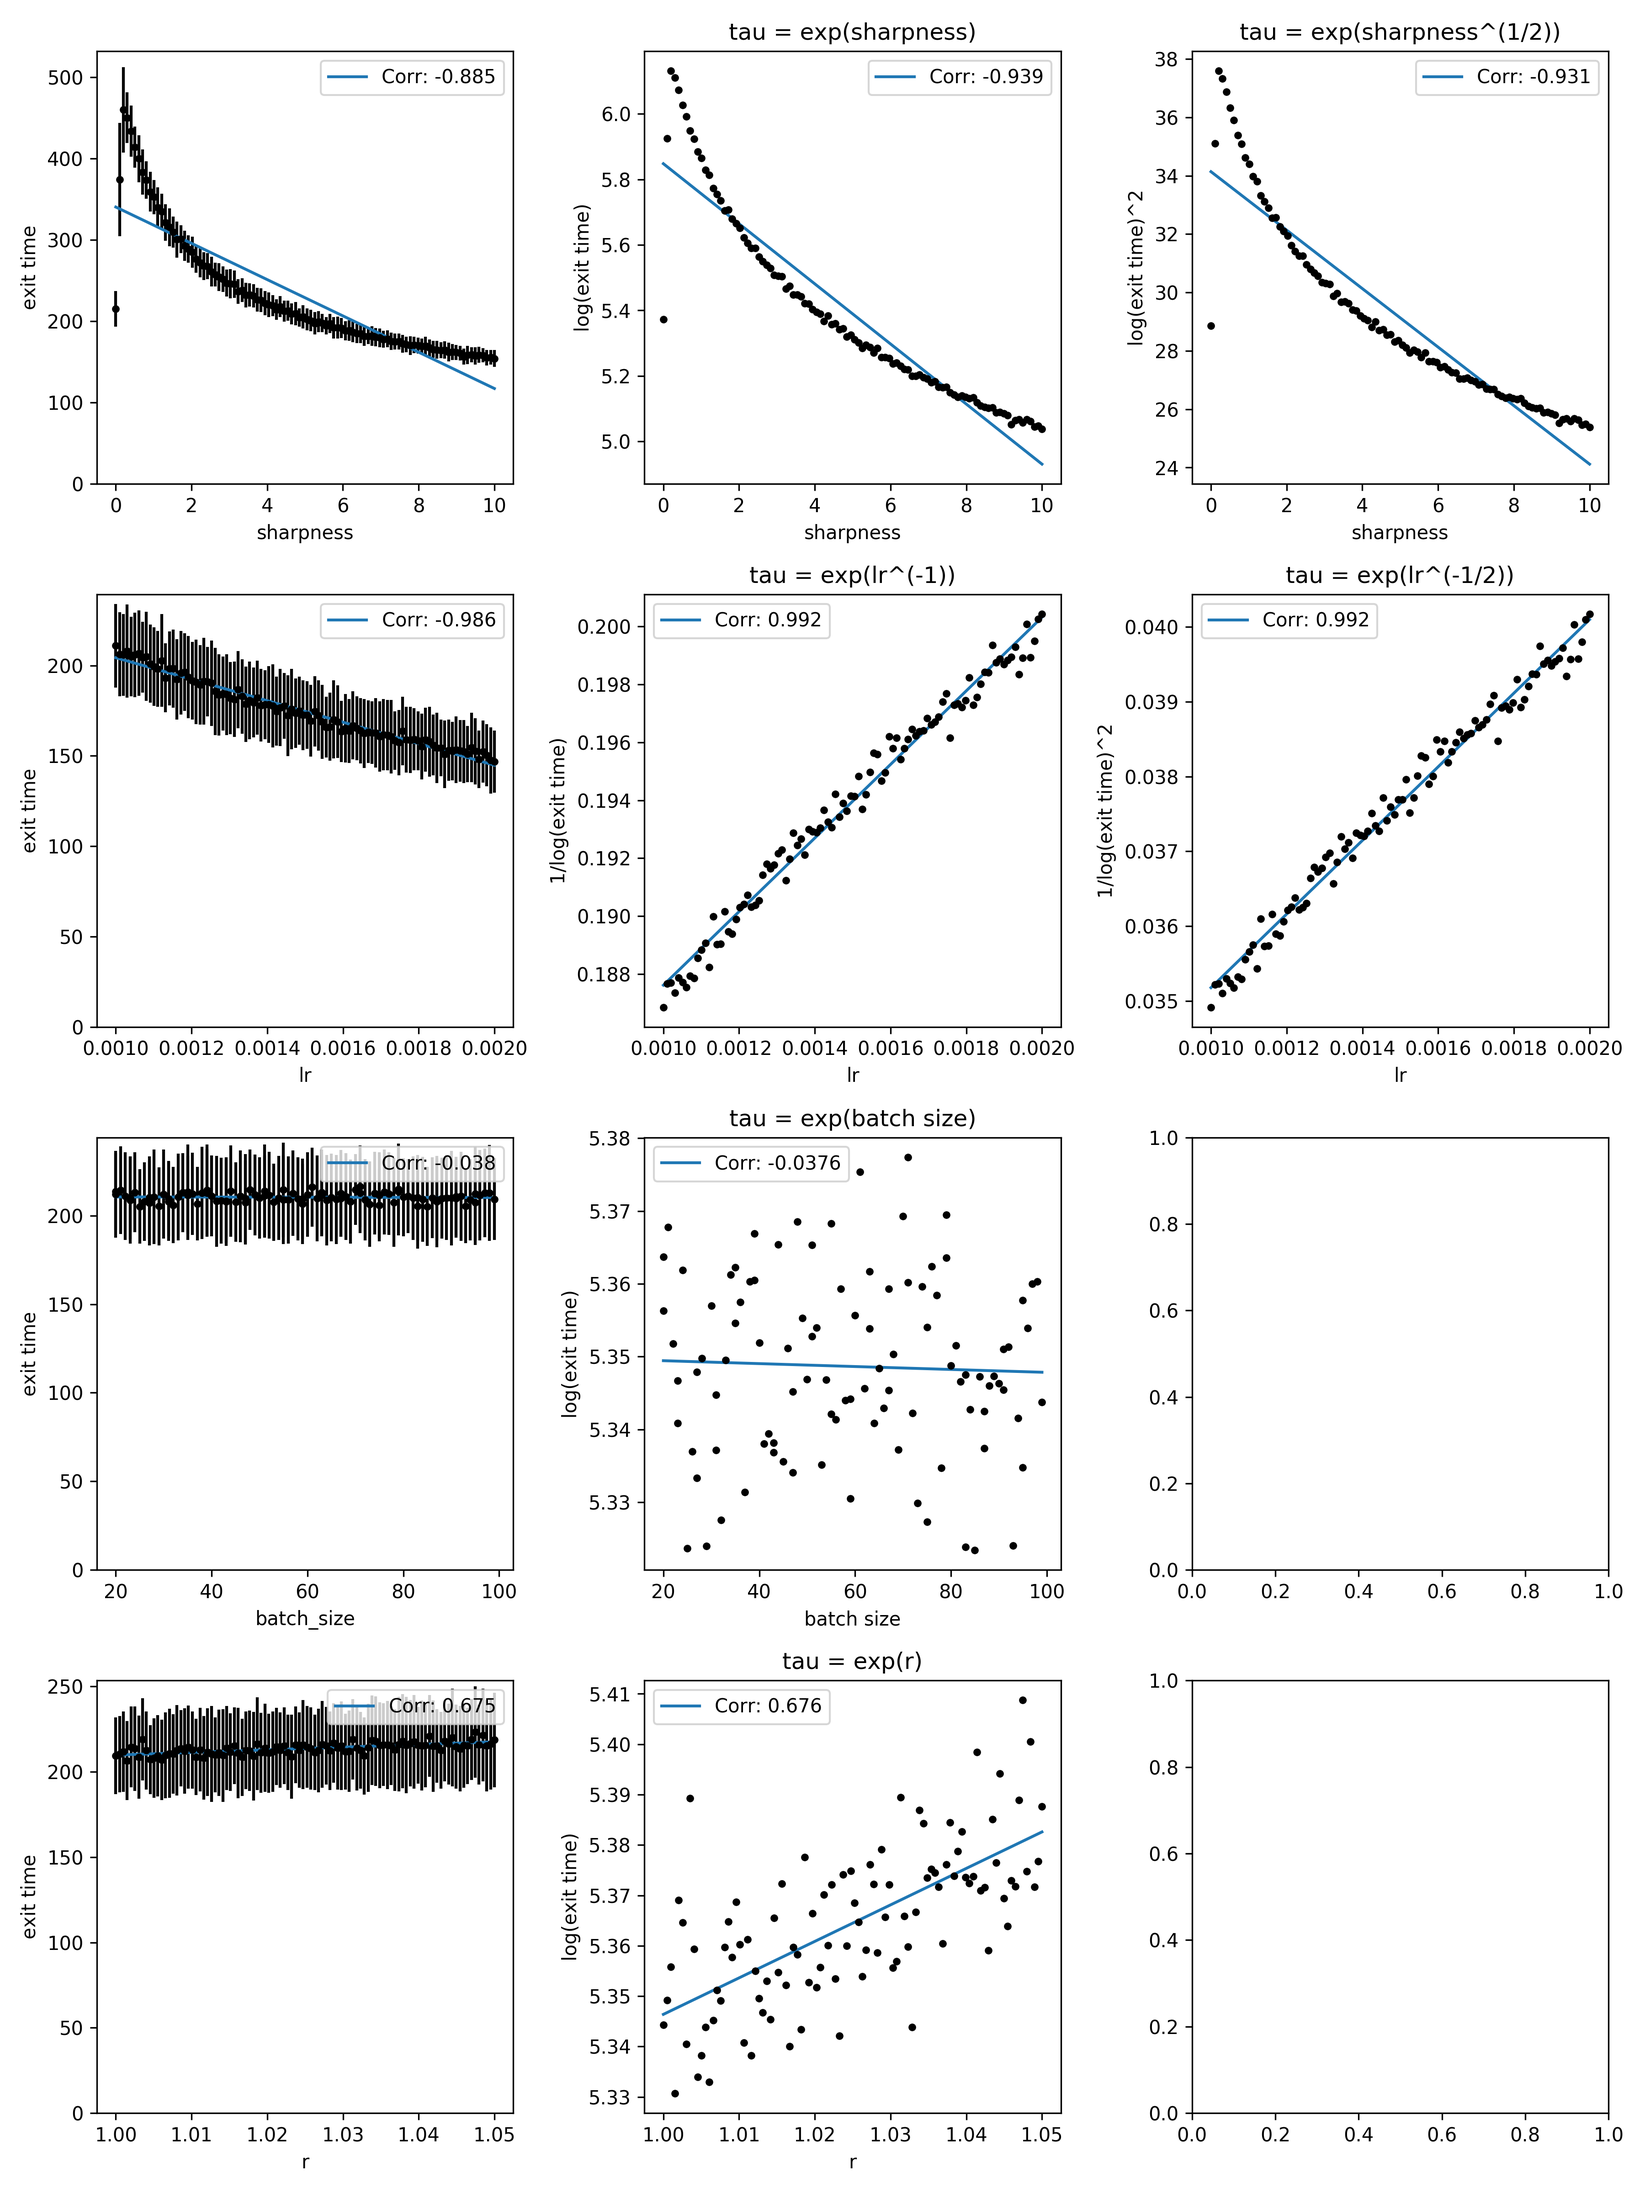
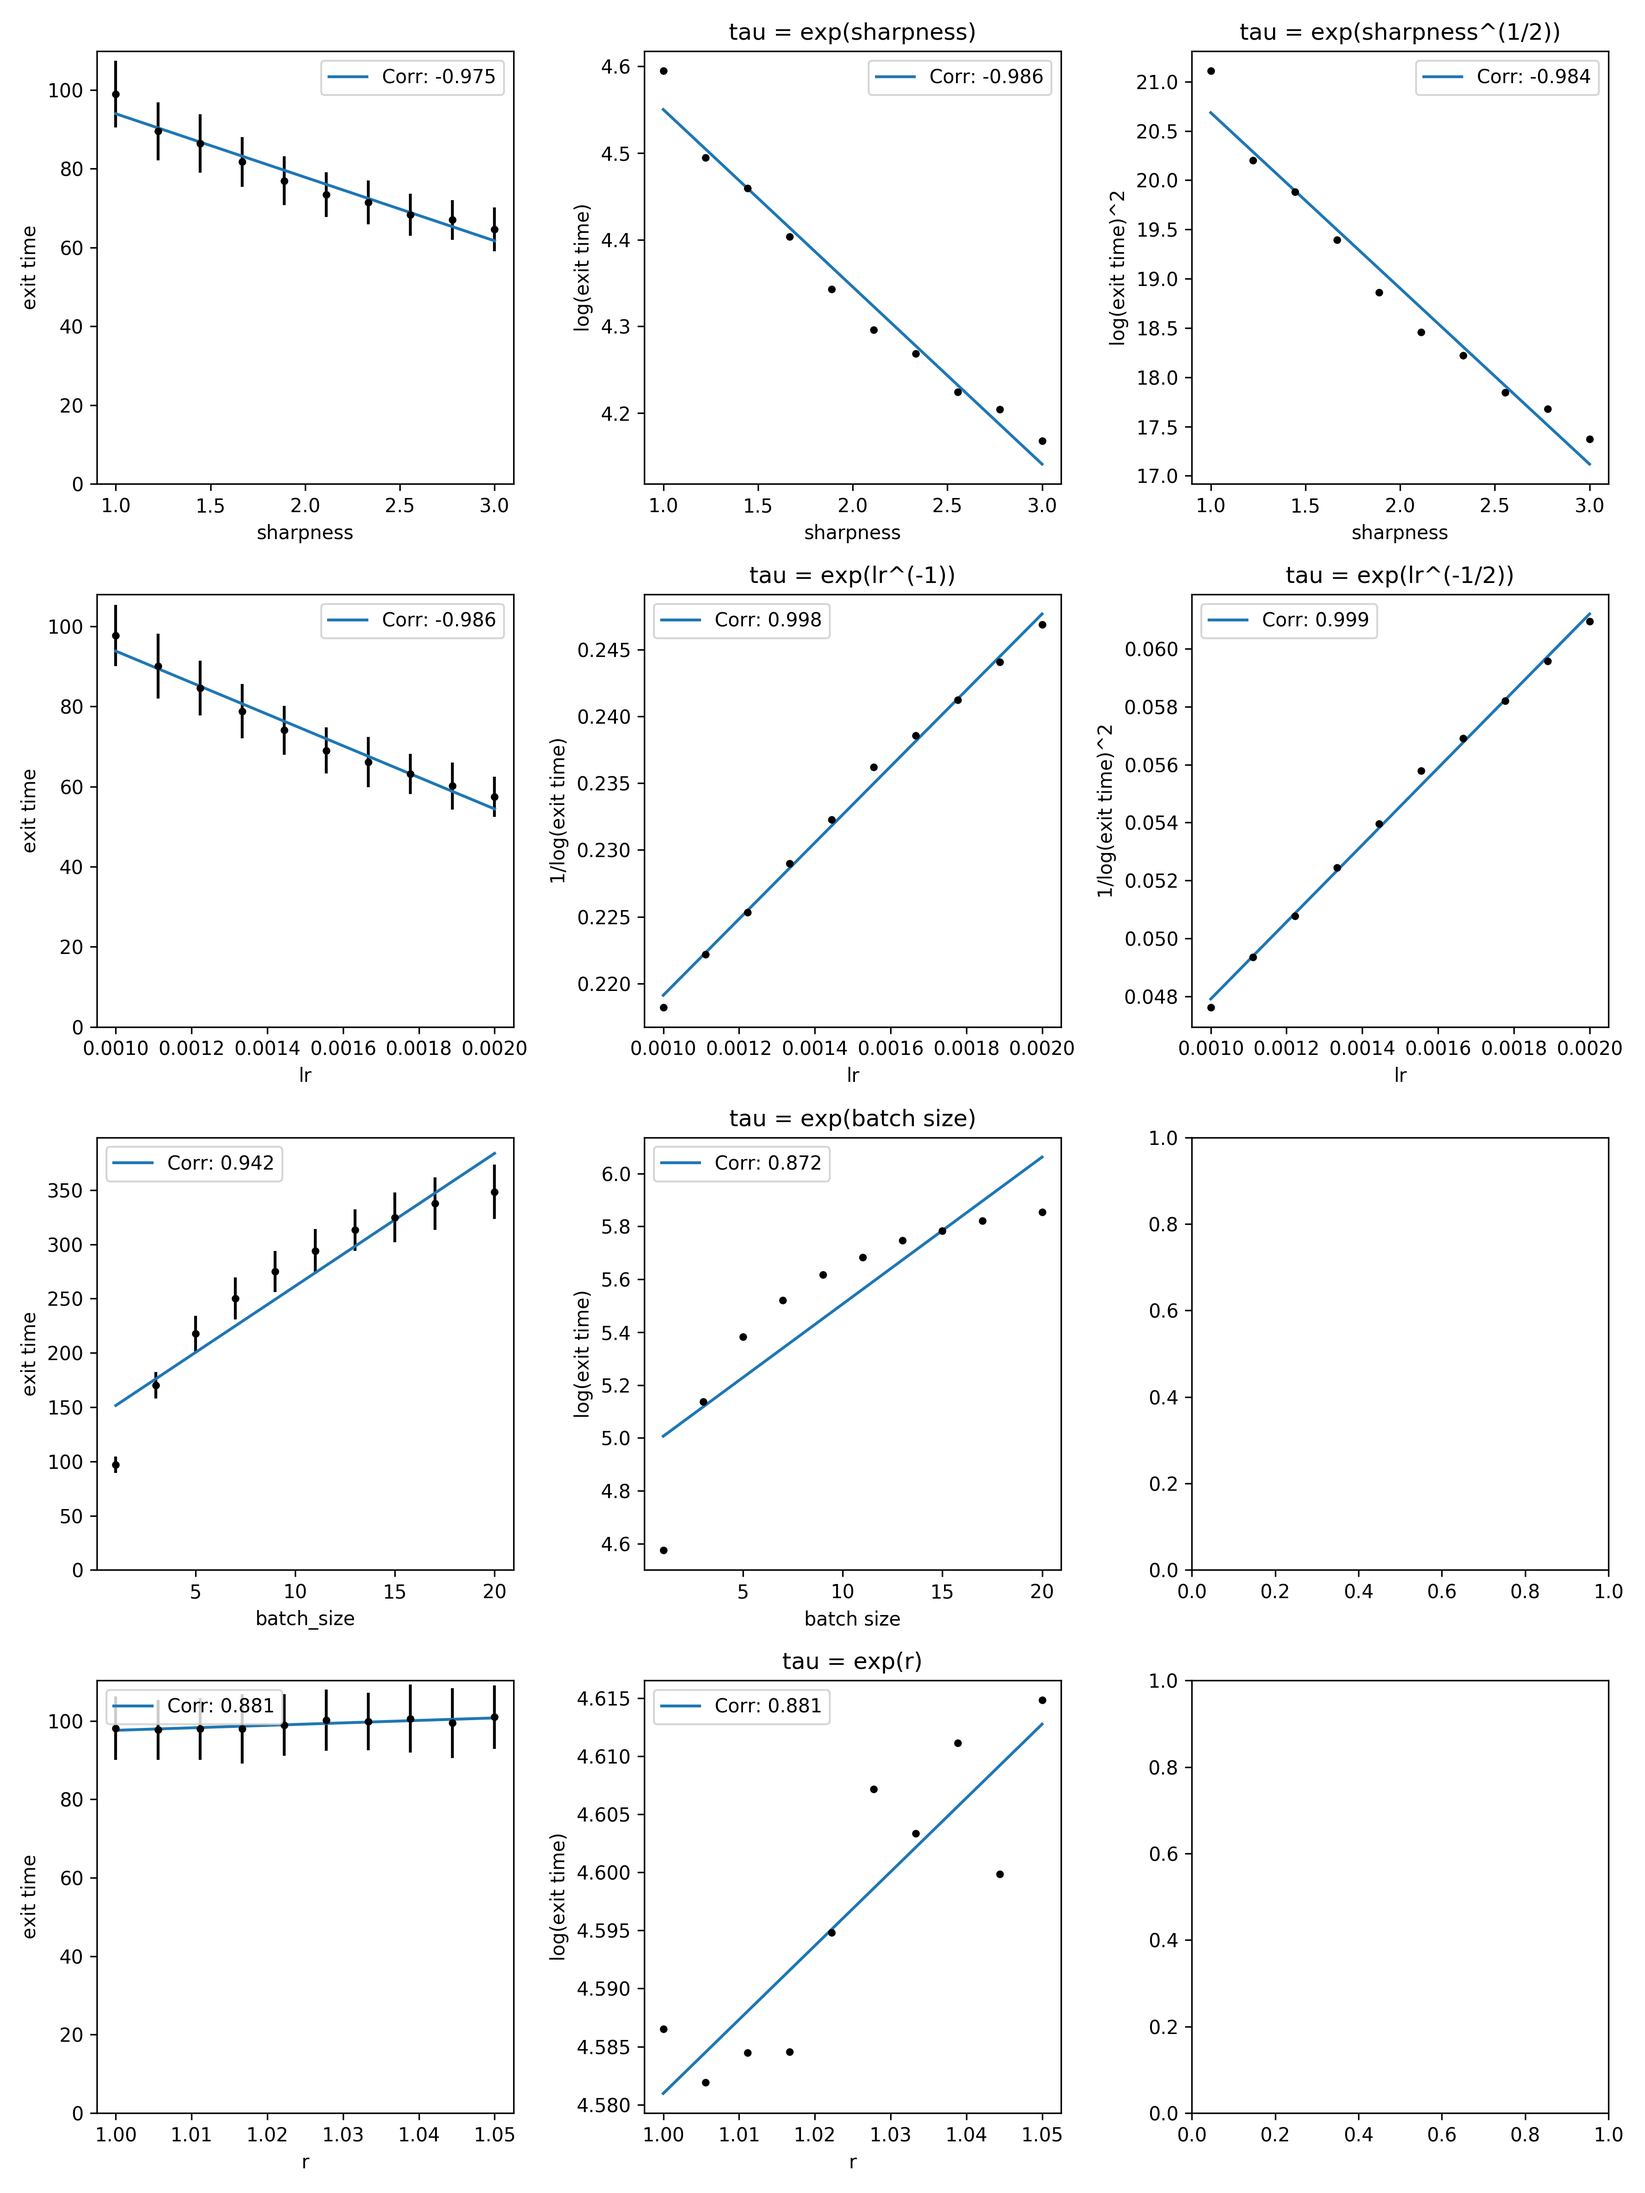
update

diff --git a/exit_time.py b/exit_time.py
@@ -320,16 +320,16 @@ def main():
     config['core'] = 0 
     config['seed'] = -1
     config['num_dim'] = 100
-    config['sharpness_min'] = 0.001 
-    config['sharpness_interval'] = 10 
+    config['sharpness_min'] = 1 
+    config['sharpness_interval'] = 2 
     config['r_min'] = 1 
     config['r_interval'] = 0.05
     config['lr_min'] = 0.001
     config['lr_interval'] = 0.001
-    config['batch_size_min'] = 20 
-    config['batch_size_interval'] = 80 
+    config['batch_size_min'] = 1 
+    config['batch_size_interval'] = 20 
     config['exit_trial_num'] = 100 
-    config['interval_sample'] = 100
+    config['interval_sample'] = 10
     config['optim'] = "SGD"
     #
     config['data'] = 'AVILA2'
